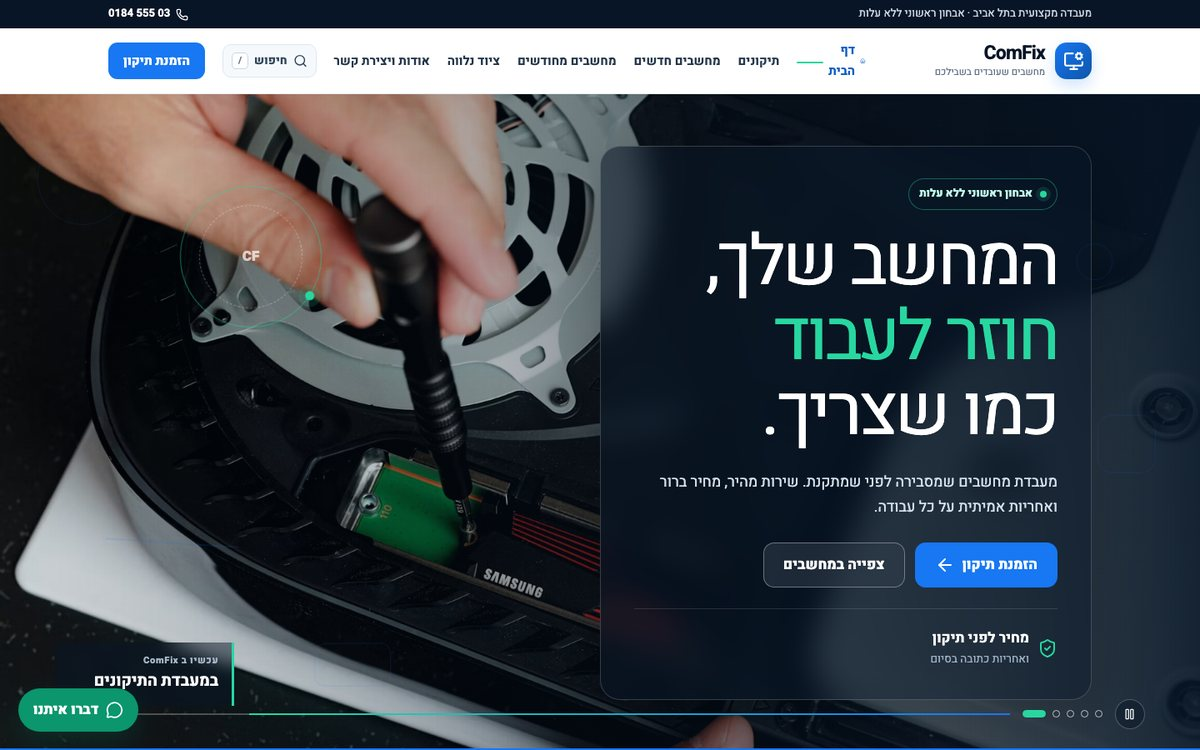
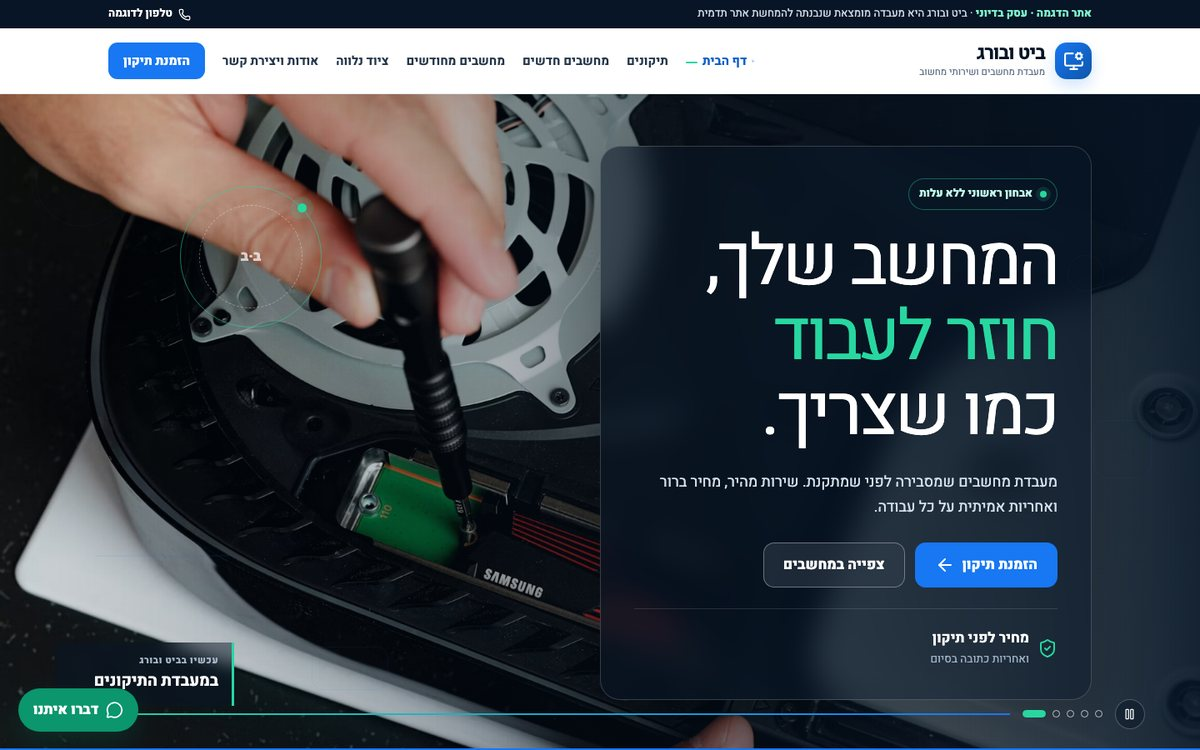
תיק עבודות: כרטיס ביט ובורג במקום מעבדת המחשבים, תצוגה מצולמת מחדש, קישור לכתובת החדשה
- ביט ובורג: אתר תדמית עד 6 עמודים, מדגים את החבילה שמתחילה ב־1,290 ₪, בלי הבטחה לחיפוש, סינון או קטלוג דינמי
- Fit With Nikita נשאר ראשון כפרויקט לקוח אמיתי (אישור הלקוח התקבל)
- seo-check: הכתובת המותרת עודכנה, ובדיקה שאין אזכור ל־ComFix בדף הבית

diff --git a/index.html b/index.html
@@ -210,11 +210,10 @@
           </article>
 
           <article class="work rv">
-            <!-- לפני פרסום: שם העסק הבדיוני ייקבע אחרי בחירה, כתובת הדוגמה עשויה להשתנות בהתאם, וצילומי המסך יצולמו מחדש אחרי שינוי השם ופישוט הקטלוג -->
             <div class="work-visual">
               <div class="work-frame" data-view="desktop">
-                <img class="img-desktop" src="assets/work/computer-lab-desktop.jpg" width="1440" height="900" alt="מעבדת המחשבים, אתר הדגמה לאתר תדמית של עד 6 עמודים, תצוגת מחשב" loading="lazy">
-                <img class="img-mobile" src="assets/work/computer-lab-mobile.jpg" width="390" height="844" alt="מעבדת המחשבים בתצוגת טלפון" loading="lazy">
+                <img class="img-desktop" src="assets/work/computer-lab-desktop.jpg" width="1440" height="900" alt="ביט ובורג, אתר הדגמה לאתר תדמית של עד 6 עמודים, תצוגת מחשב" loading="lazy">
+                <img class="img-mobile" src="assets/work/computer-lab-mobile.jpg" width="390" height="844" alt="ביט ובורג בתצוגת טלפון" loading="lazy">
               </div>
               <div class="view-switch" role="group" aria-label="בחירת תצוגה">
                 <button type="button" data-view="desktop" aria-pressed="true">מחשב</button>
@@ -226,23 +225,23 @@
                 <span class="tag demo">אתר הדגמה · עסק בדיוני</span>
                 <span class="tag">אתר תדמית · עד 6 עמודים</span>
               </div>
-              <h3 class="work-title">מעבדת המחשבים</h3>
-              <p class="work-kind">מעבדת תיקונים ומכירת מחשבים, פרויקט קונספט</p>
-              <p class="work-desc">הדוגמה הזאת מדגימה את חבילת אתר התדמית הבסיסית שמתחילה ב־1,290 ₪: עד 6 עמודי תוכן סטנדרטיים עם תפריט, טופס פנייה, וואטסאפ ושאלות נפוצות, בלי מערכות שמתומחרות בנפרד.</p>
+              <h3 class="work-title">ביט ובורג</h3>
+              <p class="work-kind">מעבדת מחשבים ושירותי מחשוב, פרויקט קונספט</p>
+              <p class="work-desc">הדוגמה הזאת מדגימה את חבילת אתר התדמית הבסיסית שמתחילה ב־1,290 ₪: עד 6 עמודי תוכן סטנדרטיים עם תפריט, טופס פנייה, וואטסאפ ושאלות נפוצות.</p>
               <p class="work-points-title">מה נבנה</p>
               <ul class="work-points">
                 <li>שישה עמודי תוכן: בית, תיקונים, מחשבים חדשים, מחשבים מחודשים, ציוד נלווה, אודות ויצירת קשר</li>
-                <li>הצגת שירותים ומוצרים בעמודים סטטיים, בלי חנות, בלי סליקה ובלי מערכת חיפוש</li>
-                <li>טופס פנייה, כפתור וואטסאפ צף ושאלות נפוצות</li>
+                <li>שירותים ומוצרים ברשימות סטטיות, בלי חנות, בלי סליקה, בלי חיפוש ובלי סינון</li>
+                <li>טופס פנייה, כפתור וואטסאפ ושאלות נפוצות. בהדגמה הם לא שולחים דבר</li>
                 <li>עמוד מדיניות פרטיות כעמוד תשתית, מעבר למכסת עמודי התוכן</li>
               </ul>
               <div class="detail-note">
                 <strong>פרט שכדאי לראות</strong>
-                <p>הדוגמה נבנתה בכוונה בתוך גבולות החבילה. מה שרואים כאן הוא מה שמקבלים במחיר הבסיס, בלי תוספות, ולכן זו הדרך הכי הוגנת להבין מה 1,290 ₪ קונים.</p>
+                <p>הדוגמה נבנתה בתוך גבולות החבילה. חיפוש, סינון וקטלוג דינמי הוסרו ממנה בכוונה, כי הם לא חלק ממחיר הבסיס ומתומחרים בנפרד לפי אפיון.</p>
               </div>
               <p class="work-demo-note">עסק בדיוני. השם, הפרטים, המחירים וההמלצות באתר הם המחשה בלבד.</p>
               <div class="work-actions">
-                <a class="btn btn-ghost" href="https://comfix-computer-lab-demo.netlify.app/" target="_blank" rel="noopener">לפתוח את הדוגמה</a>
+                <a class="btn btn-ghost" href="https://bit-uborg-demo.netlify.app/" target="_blank" rel="noopener">לפתוח את הדוגמה</a>
               </div>
             </div>
           </article>
@@ -307,7 +306,7 @@
 
         </div>
 
-        <p class="work-footnote rv">Fit With Nikita הוא פרויקט לקוח אמיתי, ומוצג כאן באישור הלקוח. מעבדת המחשבים, קמח ומים ופאדל לילה הם עסקים בדיוניים שנבנו כדי להראות רמת עיצוב וגימור, והטפסים בהם לא שולחים פניות אמיתיות.</p>
+        <p class="work-footnote rv">Fit With Nikita הוא פרויקט לקוח אמיתי, ומוצג כאן באישור הלקוח. ביט ובורג, קמח ומים ופאדל לילה הם עסקים בדיוניים שנבנו כדי להראות רמת עיצוב וגימור, והטפסים בהם לא שולחים פניות אמיתיות.</p>
       </div>
     </section>
 

diff --git a/tools/seo-check.py b/tools/seo-check.py
@@ -22,7 +22,7 @@ PAGES = {  # file: (expected robots substring, expect_h1, expect_jsonld)
 }
 FORBIDDEN = ["localhost", "127.0.0.1", "netlify.app", "example.com", "DS VideoArt", "AI Commercials", "AI Creative Director", "staging.", "עד 3 עמודים", "עד שלושה עמודים", "שלושה עמודים", "כולל עד 3", "דקות עבודה", "עד 30 דקות", "עד 90 דקות", "חצי שעה", "שעה וחצי"]
 # External live URLs the portfolio links to on purpose (decision 2026-09-25: no custom domain for the client site yet; the demo site stays on Netlify).
-ALLOWED_EXTERNAL = ["https://fit-with-nikita.netlify.app/", "https://comfix-computer-lab-demo.netlify.app/"]
+ALLOWED_EXTERNAL = ["https://fit-with-nikita.netlify.app/", "https://bit-uborg-demo.netlify.app/"]
 CORE_TEXT = list(PAGES) + ["analytics.js", "site.js", "builder/pricing-config.js", "builder/project-builder.js", "manifest.json", "robots.txt", "sitemap.xml", "_headers", "hub/content-hub.css"]
 fails, notes = [], []
 def read(p): return open(os.path.join(root, p), encoding="utf-8").read()
@@ -110,6 +110,8 @@ if home.count('golondon-desktop.jpg') != 1 or 'id="complex"' not in home: fails.
 if 'פרויקט מסוג זה אינו חלק מחבילת אתר התדמית הבסיסית' not in home: fails.append("homepage: complex-project disclaimer missing")
 if home.count('nikita-desktop.jpg') != 1 or 'פרויקט אמיתי · לקוח' not in home: fails.append("homepage: Fit With Nikita card (real client project) must appear once with its tag")
 if 'עסק בדיוני. השם, הפרטים, המחירים וההמלצות באתר הם המחשה בלבד.' not in home: fails.append("homepage: computer-lab demo note missing")
+if 'comfix' in home.lower(): fails.append("homepage: old demo name ComFix is still referenced")
+if 'ביט ובורג' not in home or 'bit-uborg-demo.netlify.app' not in home: fails.append("homepage: Bit and Borg demo card or link missing")
 # sitemap
 sm = read("sitemap.xml"); locs = re.findall(r"<loc>(.*?)</loc>", sm)
 for u in locs:
